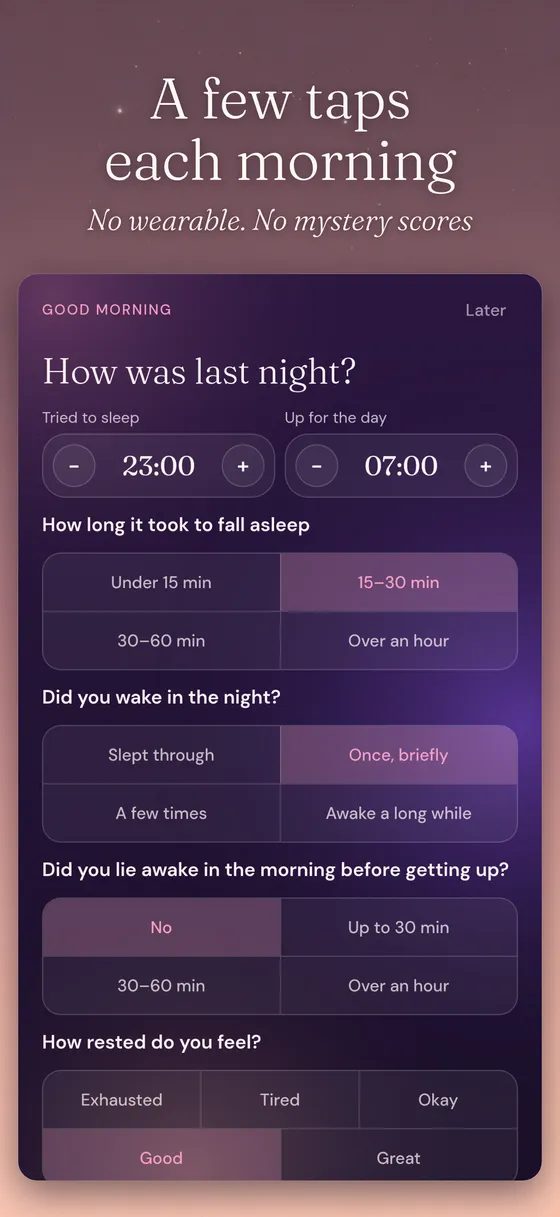
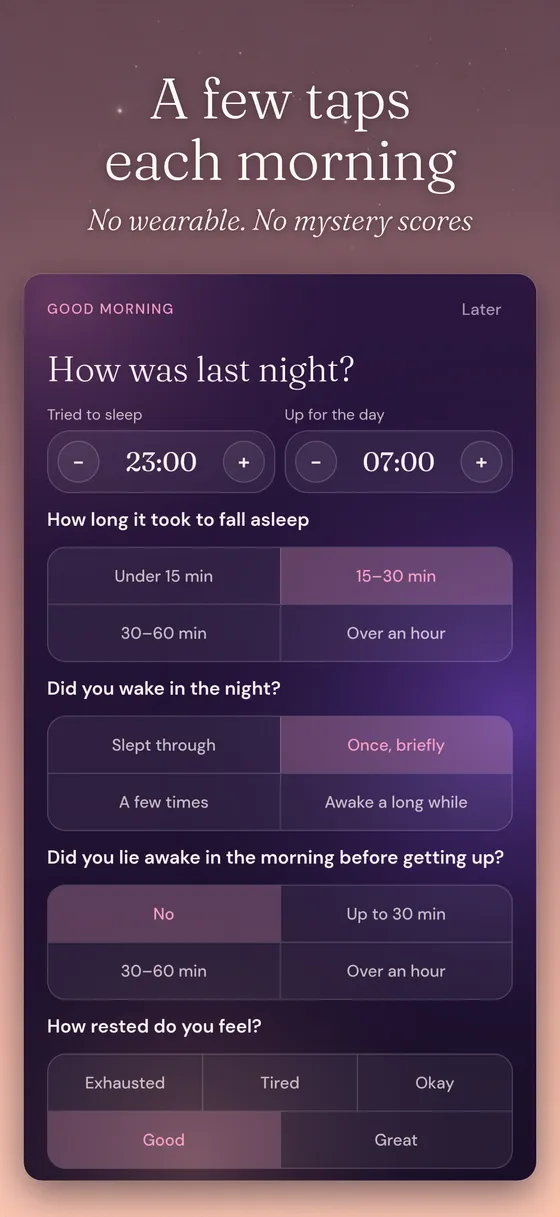
Show all screenshots; fix check-in crop

diff --git a/index.html b/index.html
@@ -41,7 +41,7 @@ header{padding:20px 0}
 .moon video,.moon img{width:100%;height:100%;object-fit:cover}
 .soon{display:block;color:var(--rose);font-weight:500}
 .small{font-size:15px;color:var(--text3);margin-top:14px}
-.shots{display:flex;gap:16px;overflow-x:auto;scroll-snap-type:x mandatory;padding:8px 20px 20px;max-width:1240px;margin:32px auto 0;scrollbar-width:none}
+.shots{display:flex;gap:16px;overflow-x:auto;scroll-snap-type:x mandatory;padding:8px 20px 20px;margin:32px 0 0;scrollbar-width:none}
 .shots::-webkit-scrollbar{display:none}
 .shots img{flex:0 0 auto;width:min(68vw,240px);aspect-ratio:1320/2868;border-radius:18px;scroll-snap-align:center}
 .steps{display:grid;grid-template-columns:repeat(3,1fr);gap:32px;margin-top:40px}
@@ -65,6 +65,7 @@ header{padding:20px 0}
 .note{font:300 clamp(26px,3.6vw,36px)/1.3 Fraunces,Georgia,serif;max-width:24em;text-wrap:pretty}.sign{margin-top:16px;color:var(--rose);font-weight:500}
 footer{padding:40px 0 56px;border-top:1px solid var(--line);font-size:15px;color:var(--text3)}
 footer nav{display:flex;gap:20px;margin-bottom:16px}
+@media (min-width:1000px){.shots{display:grid;grid-template-columns:repeat(6,1fr);overflow:visible;max-width:1400px;margin:32px auto 0}.shots img{width:100%}}
 @media (max-width:760px){section{padding:56px 0}.hero .wrap,.split,.plans{grid-template-columns:1fr;gap:28px}.moon{order:-1;max-height:300px;aspect-ratio:16/10}.steps,.trust{grid-template-columns:1fr;gap:24px}.lives{grid-template-columns:1fr 1fr}}
 @media (prefers-reduced-motion:reduce){html{scroll-behavior:auto}}
 </style>
